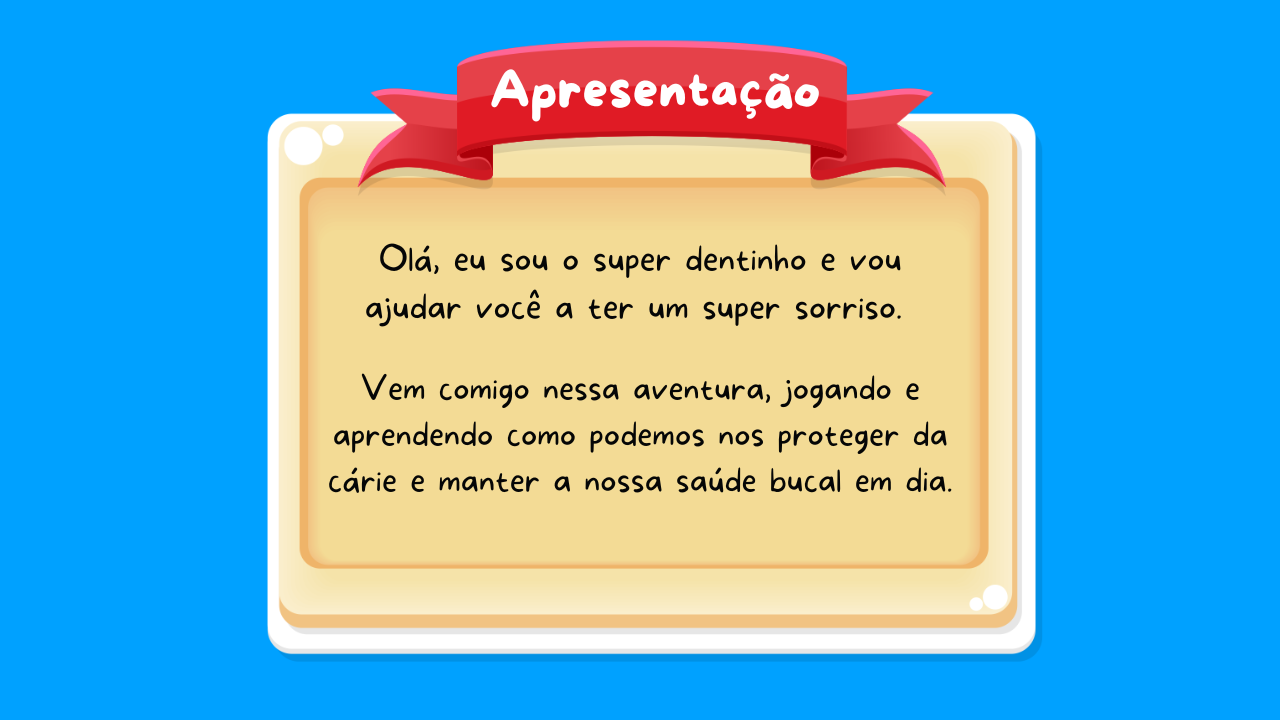
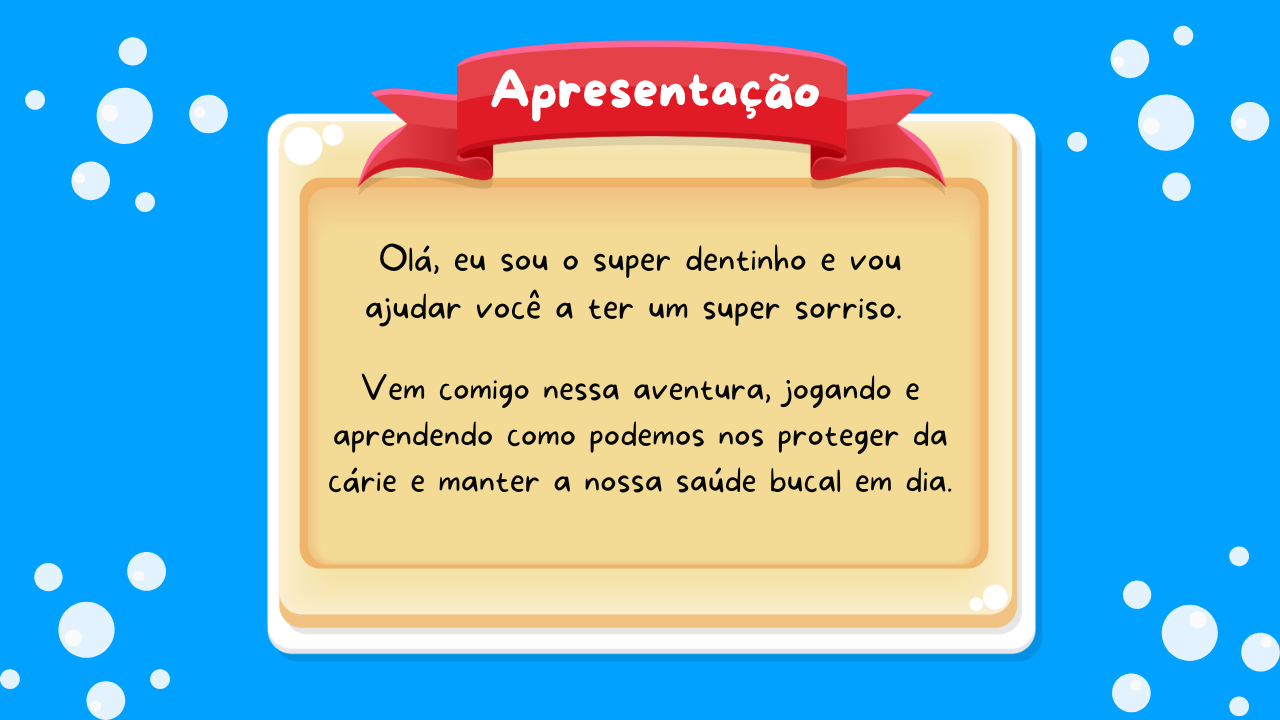
nova arte start apresentation credits rules

diff --git a/index.html b/index.html
@@ -40,8 +40,8 @@
 
     </section>
 
-    <section id="menu">
-        <img id="title" src="images/texts/TITLE.png" alt="">
+    <section id="menu">        
+        <!-- super dentinho start -->
         <img id="superDentinhoStart" src="images/characters/SUPER HAPPY TOOTH.gif" alt="">
 
         <!-- botao para iniciar o jogo -->
@@ -59,7 +59,7 @@
 
     <section id="apresentation">
         <!-- super dentinho apresentacao -->
-        <img id="superDentinhoApresentacao" src="images/characters/SUPER HAPPY TOOTH SPEAKING.gif" alt="">
+        <img id="superDentinhoApresentation" src="images/characters/SUPER HAPPY TOOTH SPEAKING.gif" alt="">
 
         <!-- botoes de navegação do menu -->
         <img class="button" id="btnRules" src="images/buttons/RULES.png" alt="">
@@ -98,14 +98,14 @@
     </section>
 
     <section id="rules">
-        <img src="images/finger/finger pressing.png" alt="" class="fingerPressing" id="fingerPressingRules">
+        <!-- <img src="images/finger/finger pressing.png" alt="" class="fingerPressing" id="fingerPressingRules"> -->
         <!-- btns -->
         <img id="btnBackFromRulesToApresentation" src="images/buttons/BACK.png" alt="">
         <img class="button" id="btnNextRule" src="images/buttons/NEXT.png" alt="" onclick="nextRule()">
     </section>
 
     <section id="credits">
-        <img src="images/finger/finger pressing.png" alt="" class="fingerPressing" id="fingerPressingCredits">
+        <!-- <img src="images/finger/finger pressing.png" alt="" class="fingerPressing" id="fingerPressingCredits"> -->
         <!-- btns -->
         <img id="btnBackFromCreditsToApresentation" src="images/buttons/BACK.png" alt="">
         <img class="button" id="btnNextCredit" src="images/buttons/NEXT.png" alt="" onclick="nextAuthor()">

diff --git a/styles/style.css b/styles/style.css
@@ -44,7 +44,7 @@ a {
     bottom: 1vw;
     right: 1vw;
     width: 100vw;
-    max-width: 400px;
+    max-width: 420px;
     margin: auto;
     background-color: white;
     padding: 10px;
@@ -222,7 +222,7 @@ p#questionText.apresentationText {
 #superDentinhoQuestion,
 #superDentinhoAnswer,
 #superDentinhoRules,
-#superDentinhoApresentacao {
+#superDentinhoApresentation {
     position: fixed;
     bottom: 0vw;
     left: 0vw;
@@ -232,18 +232,24 @@ p#questionText.apresentationText {
 
 #superDentinhoStart {
     position: fixed;
-    top: 1vw;
-    left: 42vw;
-    height: 40vw;
+    top: 2vh;
+    left: 55vw;
+    width: 44vw;
     animation: bounce 6s ease infinite;
     z-index: 2;
+}
+
+#superDentinhoApresentation {
+    bottom: 28vh;
+    left: -2vw;
+    width: 28vw;
 }
 
 #superDentinhoBoardGame {
     position: fixed;
     bottom: 4vw;
-    left: 25vw;
-    width: 10vw;
+    left: 22vw;
+    width: 12vw;
     animation: bounce 6s ease infinite;
 }
 
@@ -523,7 +529,7 @@ iframe {
     }
 
     50% {
-        transform: scale(1.05, 1.0.5);
+        transform: scale(1.1, 1.1);
     }
 
     100% {
@@ -533,7 +539,7 @@ iframe {
 
 @keyframes zoom-out-zoom-in {
     0% {
-        transform: scale(1.2, 1.2);
+        transform: scale(1.1, 1.1);
     }
 
     50% {
@@ -541,7 +547,7 @@ iframe {
     }
 
     100% {
-        transform: scale(1.2, 1.2);
+        transform: scale(1.1, 1.1);
     }
 }
 

diff --git a/styles/buttons.css b/styles/buttons.css
@@ -11,8 +11,7 @@
     left: 2.5vw;
     width: 6vw;
     height: 6vw;
-    cursor: pointer;
-    animation: zoom-in-zoom-out 1s ease infinite;
+    cursor: pointer;    
     z-index: 10;
 }
 
@@ -45,14 +44,9 @@
 }
 
 #btnPlay {
-    top: 70vh;
-    left: 21vw;
-}
-
-#btnDoubt {
-    bottom: 3vh;
-    right: 3vw;
-    animation: zoom-out-zoom-in 2s ease infinite; 
+    top: 74vh;
+    left: 26vw;
+    animation: zoom-out-zoom-in 1s ease infinite; 
 }
 
 .optionButton {
@@ -76,8 +70,8 @@
 
 @media screen and (max-width: 915px) {
     #btnPlay {
-        top: 70vh;
-        left: 20vw;
+        top: 74vh;
+        left: 28vw;
     }
 
     #option1 {
@@ -102,6 +96,7 @@
     left: 45vw;
     width: 11vw;    
     height: 11vw;
+    animation: zoom-out-zoom-in 1s ease infinite; 
 }
 
 #btnCredits {

diff --git a/styles/backgroundImages.css b/styles/backgroundImages.css
@@ -6,9 +6,9 @@
 }
 
 .start {
-    background-image: url("../images/backgrounds/START\ PARCIAL.png");
+    background-image: url("../images/backgrounds/START.png");
     background-color: #00a1ff;
-    background-position: center;
+    background-position: left;
     background-size: contain;    
 }
 
